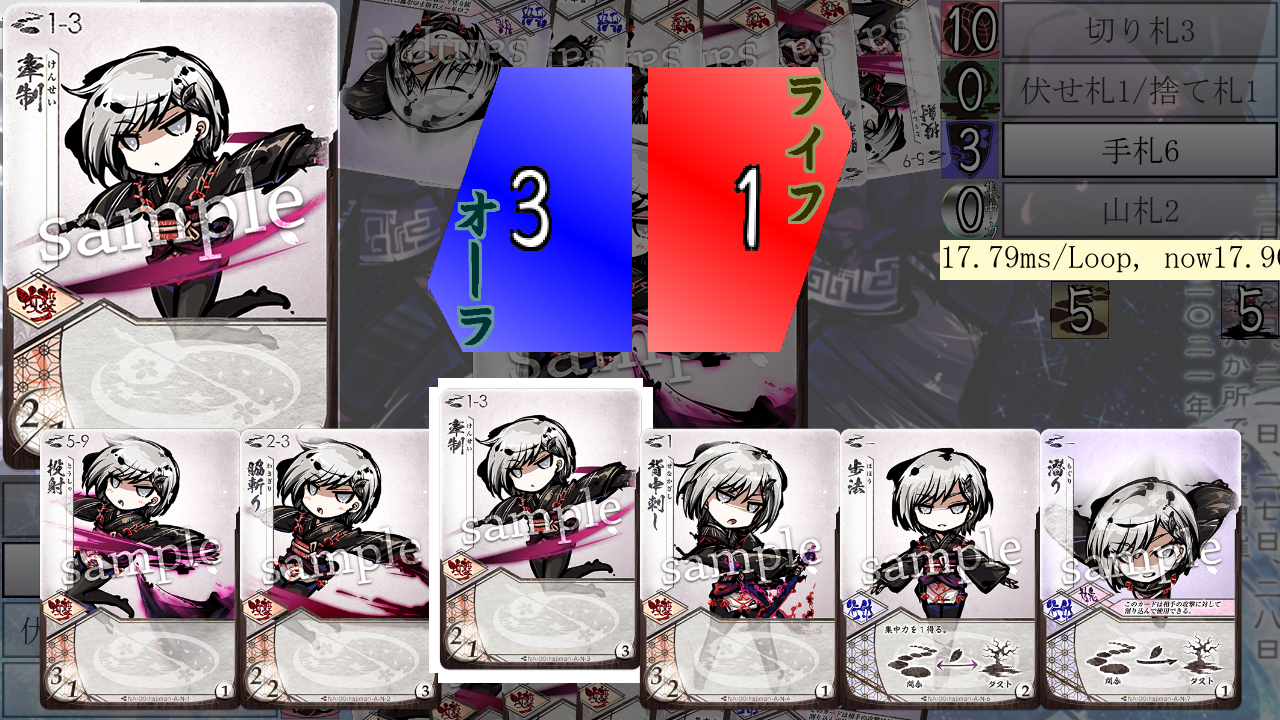
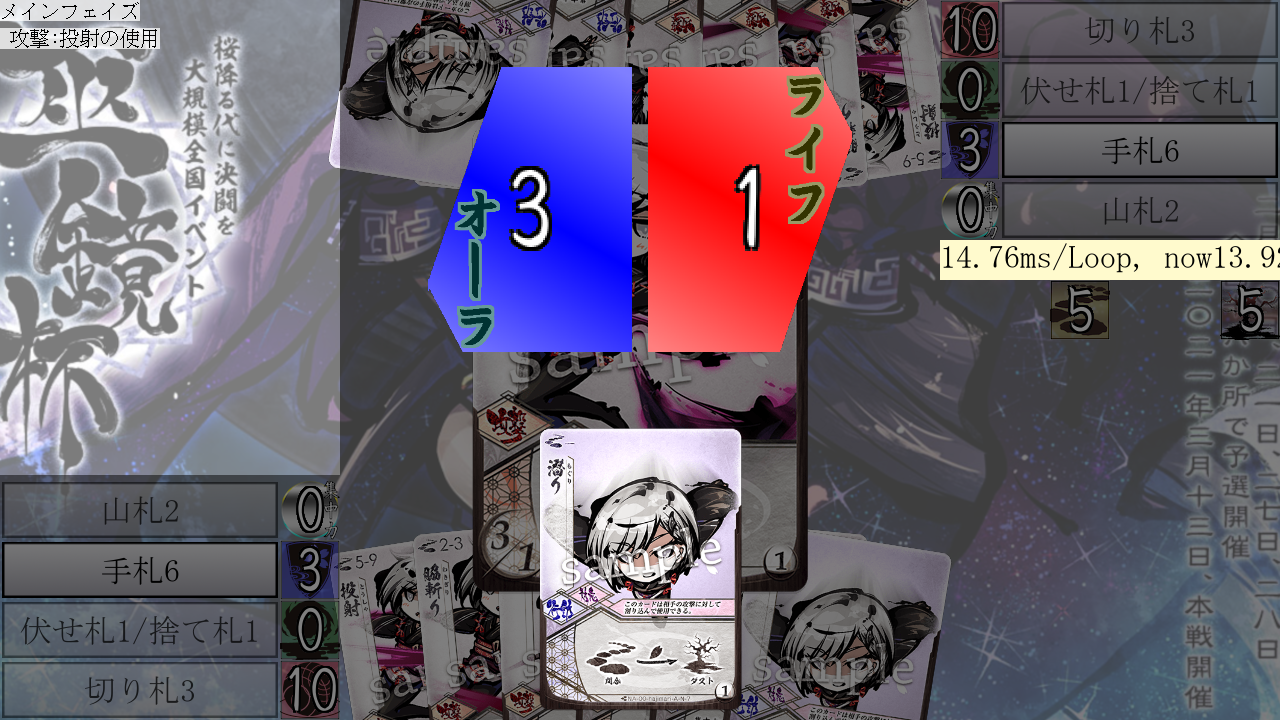
J224:相手の手札対応一覧が出るように

diff --git a/mod/ol/play_kougeki.py b/mod/ol/play_kougeki.py
@@ -33,9 +33,10 @@ class PlayKougeki():
         self.name = f"攻撃:{kougeki.name}の使用"
         self.inject_func = delivery.inject_view
         self.taiou_taba: Taba = Taba()
+        self.origin_list: list[Huda] = []
         self.uke_taba: Taba = Taba()
-        self.factory = TabaFactory(inject_kwargs={
-            "draw": Huda.available_draw, "hover": Huda.detail_draw, "mousedown": Huda.mousedown, "mouseup": self._mouseup
+        self.uke_factory = TabaFactory(inject_kwargs={
+            "draw": Huda.available_draw, "hover": Huda.detail_draw, "mousedown": Huda.mousedown, "mouseup": self._uke_mouseup
             }, huda_x=HAND_X, huda_y=HAND_Y, huda_angle=HAND_ANGLE)
         self.taiou_factory = TabaFactory(inject_kwargs={
             "draw": Huda.available_draw, "hover": Huda.detail_draw, "mousedown": Huda.mousedown, "mouseup": self._taiou_mouseup
@@ -60,7 +61,7 @@ class PlayKougeki():
     def moderate(self, stat: int) -> None:
         ...
 
-    def _mouseup(self, huda: Huda) -> None:
+    def _uke_mouseup(self, huda: Huda) -> None:
         # popup_message.add(text="PlayKougeki.mouseup でクリック確定したよ")
         huda.card.kaiketu(delivery=self.delivery, hoyuusya=self.hoyuusya)
         if self.source_huda:
@@ -76,16 +77,14 @@ class PlayKougeki():
         can_receive_aura = _ad_card.can_damage(delivery=self.delivery, hoyuusya=self.hoyuusya)
         _ld_card = Damage(img=IMG_LIFE_DAMAGE, name="ライフダメージ", dmg=self.kougeki.life_damage(
             self.delivery, self.hoyuusya), from_code=UC_LIFE, to_code=UC_FLAIR)
-        self.uke_taba = self.factory.maid_by_cards(cards=([_ad_card, _ld_card] if can_receive_aura else [_ld_card]), hoyuusya=self.hoyuusya)
+        self.uke_taba = self.uke_factory.maid_by_cards(cards=([_ad_card, _ld_card] if can_receive_aura else [_ld_card]), hoyuusya=self.hoyuusya)
 
     def _make_taiou_taba(self) -> None:
         from mod.const import TC_TEHUDA
         if not isinstance(tehuda := self.delivery.taba_target(hoyuusya=self.hoyuusya, is_mine=False, taba_code=TC_TEHUDA), Taba):
             raise ValueError(f"Invalid tehuda: {tehuda}")
-        cards = []
-        for huda in tehuda:
-            cards.append(huda.card)
-        self.taiou_taba = self.taiou_factory.maid_by_cards(cards=cards, hoyuusya=self.hoyuusya)
+        self.origin_list = [huda for huda in tehuda if huda.card.taiou]
+        self.taiou_taba = self.taiou_factory.maid_by_cards(cards=[huda.card for huda in self.origin_list], hoyuusya=self.hoyuusya)
 
 
 # compatible_with(, OverLayer)

diff --git a/mod/card.py b/mod/card.py
@@ -38,7 +38,7 @@ class Card():
 class Kougeki(Card):
     def __init__(self, img: Surface, name: str, cond: BoolDI,
                  aura_damage: SuuziDI, life_damage: SuuziDI, maai_list: MaaiDI, taiou: bool=False, zenryoku: bool=False) -> None:
-        super().__init__(img, name, cond)
+        super().__init__(img, name, cond, taiou, zenryoku)
         self.type = CT_KOUGEKI
         self.aura_damage = aura_damage
         self.life_damage = life_damage
@@ -73,7 +73,7 @@ class Kougeki(Card):
 
 class Koudou(Card):
     def __init__(self, img: Surface, name: str, cond: BoolDI, kouka: KoukaDI, taiou: bool=False, zenryoku: bool=False) -> None:
-        super().__init__(img, name, cond)
+        super().__init__(img, name, cond, taiou, zenryoku)
         self.kouka = kouka
 
     def kaiketu(self, delivery: Delivery, hoyuusya: int, huda: Any | None = None) -> None:
